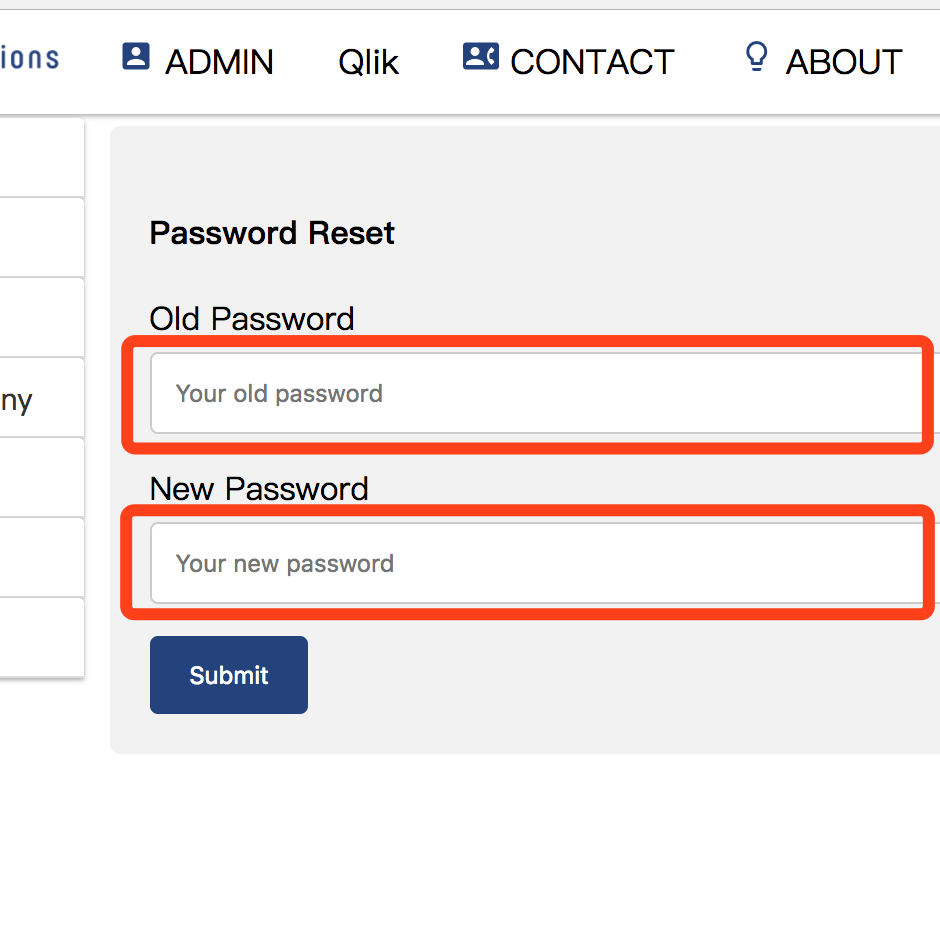
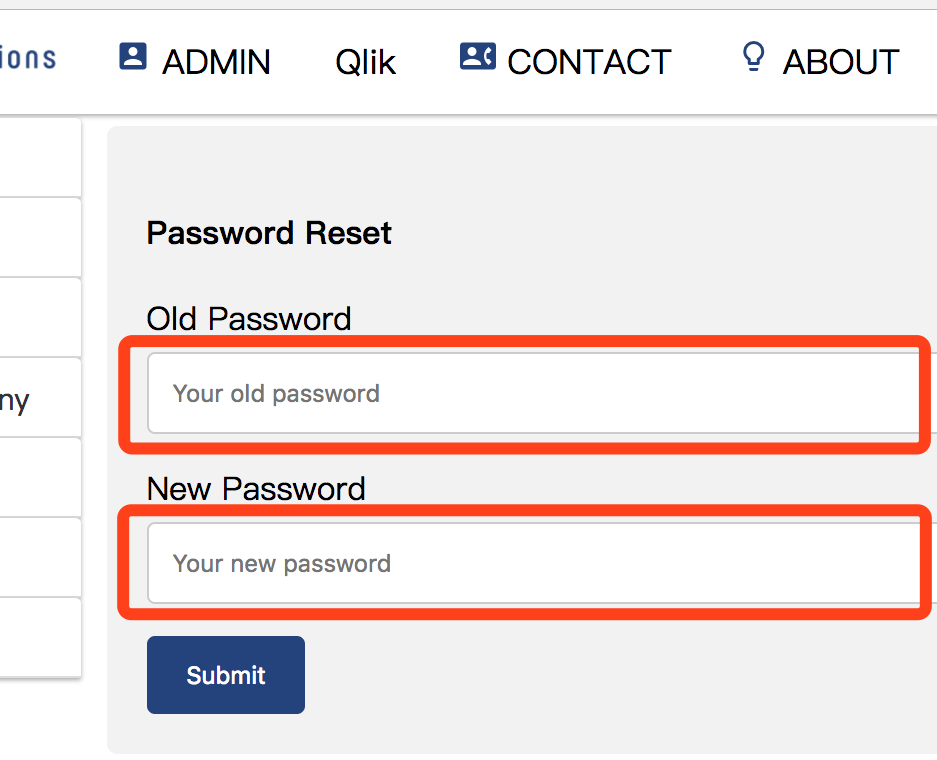
Update Help and About page
- Update help page more responsive
- Fix Google font problem
- Update About page more responsive, more friendly
- Fix image of password change

diff --git a/adminpage.html b/adminpage.html
@@ -5,6 +5,7 @@
  <title>Admin | Cast Solution</title>
  <link rel="stylesheet" href="css/mainPage.css">
  <link rel="stylesheet" href="https://fonts.googleapis.com/icon?family=Material+Icons">
+ <link href="https://fonts.googleapis.com/css?family=Open+Sans:300|Fira+Sans:400,500" rel="stylesheet">
 <script src="https://ajax.googleapis.com/ajax/libs/jquery/3.2.0/jquery.min.js"></script>
 <script type="text/javascript">
 $(document).ready(function(){
@@ -662,30 +663,11 @@ if (xmlHttp.readyState==4 || xmlHttp.readyState=="complete"){
   </form>
 </div>
 
-
-
-<!-- 	help page -->
-<!-- <div class="col-14 divAddUser allform tabcontent" id="help">
-
-
-  <h1>Change Password</h1>
-  <p>Click setting and it will show Rest Password link</p>
-  <p>Old Password: Your current password</p>
-  <p>New Password: password you wanna use in the future</p>
-  <h1>Reset Password</h1>
-  <p>Step 1: Please input your email and username.</p>
-  <p>Step 2: Click 'Send me New Password' button.</p>
-  <p>Step 3: You will receive a random new password in your email.</p>
-
-
-</div> -->
-
-
 <!-- new help page -->
 <div class="col-14 divAddUser allform tabcontent" id="helpPage">
     <h4>How to reset password?</h4>
 <div class="rowTeam">
-  <div class="columnHelp">
+  <div class="col-6 columnHelp">
     <div class="helpCard">
       <img src="img/changePassword1.png" alt="First step">
       <div class="teamContainer">
@@ -697,7 +679,7 @@ if (xmlHttp.readyState==4 || xmlHttp.readyState=="complete"){
     </div>
   </div>
 
-  <div class="columnHelp">
+  <div class="col-6 columnHelp">
     <div class="helpCard">
       <img src="img/changePassword2.png" alt="Second step">
       <div class="teamContainer">
@@ -733,7 +715,7 @@ if (xmlHttp.readyState==4 || xmlHttp.readyState=="complete"){
     <p>Cast Solutions provides consulting services and product solutions for companies seeking to enhance their performance and strategy, and looking to achieve sustainable growth.
     We thrive from being involved with businesses seeking to grow or improve. The common element is the need for a fresh approach, a process, tools and access to people who have done this successfully across diverse markets.</p>
 <div class="rowTeam">
-  <div class="columnTeamMain">
+  <div class="col-6 columnTeamMain">
     <div class="teamCard">
       <img id="imgClaire" src="img/castTeam/Claire.png" alt="Claire Lange">
       <div class="teamContainer">
@@ -741,12 +723,12 @@ if (xmlHttp.readyState==4 || xmlHttp.readyState=="complete"){
         <p class="teamTitle">Client Relationship Lead</p>
         <p>Claire has more than 25 years' experience in various business sectors including industrial, utilities, construction and infrastructure. Founding Cast in 2004, she has a passion for working with companies to enable growth and collaborative partnerships. At Cast Solutions, Claire leads the Strategic Services team. </p>
         <p>claire@castsolutions.com.au</p>
-        <p><button class="teamBtn">Contact</button></p>
+        <!-- <p><button class="teamBtn">Contact</button></p> -->
       </div>
     </div>
   </div>
 
-  <div class="columnTeamMain">
+  <div class="col-6 columnTeamMain">
     <div class="teamCard">
       <img id="imgRob" src="img/castTeam/Rob.png" alt="Rob Lange">
       <div class="teamContainer">
@@ -754,11 +736,11 @@ if (xmlHttp.readyState==4 || xmlHttp.readyState=="complete"){
         <p class="teamTitle">Business Operations Lead</p>
         <p>Rob brings 30 years' experience in the engineering; oil and gas trading in Australia, Japan, South East Asia and Europe.  He has been responsible for the expansion into Data analytics solutions working closely with end clients. At Cast Solutions, Rob leads the Product Solutions, Data Analytics  and business operations.</p>
         <p>rob@castsolutions.com.au</p>
-        <p><button class="teamBtn">Contact</button></p>
+        <!-- <p><button class="teamBtn">Contact</button></p> -->
       </div>
     </div>
   </div>
-  <div class="columnTeam">
+  <div class="col-3 columnTeam">
     <div class="teamCard">
       <img src="img/castTeam/DavidKirby.png" alt="David Kirby">
       <div class="teamContainer">
@@ -767,7 +749,7 @@ if (xmlHttp.readyState==4 || xmlHttp.readyState=="complete"){
       </div>
     </div>
   </div>
-    <div class="columnTeam">
+    <div class="col-3 columnTeam">
     <div class="teamCard">
       <img src="img/castTeam/JanineHoey.png" alt="Janine Hoey">
       <div class="teamContainer">
@@ -776,7 +758,7 @@ if (xmlHttp.readyState==4 || xmlHttp.readyState=="complete"){
       </div>
     </div>
   </div>
-    <div class="columnTeam">
+    <div class="col-3 columnTeam">
     <div class="teamCard">
       <img src="img/castTeam/MarkusZ.png" alt="Markus Z">
       <div class="teamContainer">
@@ -785,7 +767,7 @@ if (xmlHttp.readyState==4 || xmlHttp.readyState=="complete"){
       </div>
     </div>
   </div>
-    <div class="columnTeam">
+    <div class="col-3 columnTeam">
     <div class="teamCard">
       <img src="img/castTeam/LachlanWells.png" alt="LachlanWells">
       <div class="teamContainer">
@@ -794,7 +776,7 @@ if (xmlHttp.readyState==4 || xmlHttp.readyState=="complete"){
       </div>
     </div>
   </div>
-    <div class="columnTeam">
+    <div class="col-3 columnTeam">
     <div class="teamCard">
       <img src="img/castTeam/ShirleyZhang.png" alt="Shirley Zhang">
       <div class="teamContainer">
@@ -803,7 +785,7 @@ if (xmlHttp.readyState==4 || xmlHttp.readyState=="complete"){
       </div>
     </div>
   </div>
-    <div class="columnTeam">
+    <div class="col-3 columnTeam">
     <div class="teamCard">
       <img src="img/castTeam/MarcieKlocker.png" alt="Marcie Klocker">
       <div class="teamContainer">
@@ -812,7 +794,7 @@ if (xmlHttp.readyState==4 || xmlHttp.readyState=="complete"){
       </div>
     </div>
   </div>
-    <div class="columnTeam">
+    <div class="col-3 columnTeam">
     <div class="teamCard">
       <img src="img/castTeam/NoraManandi.png" alt="Nora Manandi">
       <div class="teamContainer">
@@ -821,7 +803,7 @@ if (xmlHttp.readyState==4 || xmlHttp.readyState=="complete"){
       </div>
     </div>
   </div>
-    <div class="columnTeam">
+    <div class="col-3 columnTeam">
     <div class="teamCard">
       <img src="img/castTeam/DamienCleary.png" alt="Damien Cleary">
       <div class="teamContainer">
@@ -830,7 +812,7 @@ if (xmlHttp.readyState==4 || xmlHttp.readyState=="complete"){
       </div>
     </div>
   </div>
-    <div class="columnTeam">
+    <div class="col-3 columnTeam">
     <div class="teamCard">
       <img src="img/castTeam/JamesTomlinson.png" alt="James Tomlinson">
       <div class="teamContainer">
@@ -839,7 +821,7 @@ if (xmlHttp.readyState==4 || xmlHttp.readyState=="complete"){
       </div>
     </div>
   </div>
-    <div class="columnTeam">
+    <div class="col-3 columnTeam">
     <div class="teamCard">
       <img src="img/castTeam/MattLeahy.png" alt="Matt Leahy">
       <div class="teamContainer">
@@ -848,7 +830,7 @@ if (xmlHttp.readyState==4 || xmlHttp.readyState=="complete"){
       </div>
     </div>
   </div>
-    <div class="columnTeam">
+    <div class="col-3 columnTeam">
     <div class="teamCard">
       <img src="img/castTeam/DanielHarz.png" alt="Daniel Harz">
       <div class="teamContainer">

diff --git a/userpage.html b/userpage.html
@@ -5,6 +5,7 @@
  <title>User | Cast Solution</title>
  <link rel="stylesheet" href="css/mainPage.css">
  <link rel="stylesheet" href="https://fonts.googleapis.com/icon?family=Material+Icons">
+ <link href="https://fonts.googleapis.com/css?family=Open+Sans:300|Fira+Sans:400,500" rel="stylesheet">
 </head>
 <script>
 window.onload=checkCookie();
@@ -280,7 +281,7 @@ if (xmlHttp.readyState==4 || xmlHttp.readyState=="complete"){
     <p>Cast Solutions provides consulting services and product solutions for companies seeking to enhance their performance and strategy, and looking to achieve sustainable growth.
     We thrive from being involved with businesses seeking to grow or improve. The common element is the need for a fresh approach, a process, tools and access to people who have done this successfully across diverse markets.</p>
 <div class="rowTeam">
-  <div class="columnTeamMain">
+  <div class="col-6 columnTeamMain">
     <div class="teamCard">
       <img id="imgRob" src="img/castTeam/Claire.png" alt="Claire Lange">
       <div class="teamContainer">
@@ -293,7 +294,7 @@ if (xmlHttp.readyState==4 || xmlHttp.readyState=="complete"){
     </div>
   </div>
 
-  <div class="columnTeamMain">
+  <div class="col-6 columnTeamMain">
     <div class="teamCard">
       <img id="imgRob" src="img/castTeam/Rob.png" alt="Rob Lange">
       <div class="teamContainer">
@@ -305,7 +306,7 @@ if (xmlHttp.readyState==4 || xmlHttp.readyState=="complete"){
       </div>
     </div>
   </div>
-  <div class="columnTeam">
+  <div class="col-3 columnTeam">
     <div class="teamCard">
       <img src="img/castTeam/DavidKirby.png" alt="David Kirby">
       <div class="teamContainer">
@@ -314,7 +315,7 @@ if (xmlHttp.readyState==4 || xmlHttp.readyState=="complete"){
       </div>
     </div>
   </div>
-    <div class="columnTeam">
+    <div class="col-3 columnTeam">
     <div class="teamCard">
       <img src="img/castTeam/JanineHoey.png" alt="Janine Hoey">
       <div class="teamContainer">
@@ -323,7 +324,7 @@ if (xmlHttp.readyState==4 || xmlHttp.readyState=="complete"){
       </div>
     </div>
   </div>
-    <div class="columnTeam">
+    <div class="col-3 columnTeam">
     <div class="teamCard">
       <img src="img/castTeam/MarkusZ.png" alt="Markus Z">
       <div class="teamContainer">
@@ -332,7 +333,7 @@ if (xmlHttp.readyState==4 || xmlHttp.readyState=="complete"){
       </div>
     </div>
   </div>
-    <div class="columnTeam">
+    <div class="col-3 columnTeam">
     <div class="teamCard">
       <img src="img/castTeam/LachlanWells.png" alt="LachlanWells">
       <div class="teamContainer">
@@ -341,7 +342,7 @@ if (xmlHttp.readyState==4 || xmlHttp.readyState=="complete"){
       </div>
     </div>
   </div>
-    <div class="columnTeam">
+    <div class="col-3 columnTeam">
     <div class="teamCard">
       <img src="img/castTeam/ShirleyZhang.png" alt="Shirley Zhang">
       <div class="teamContainer">
@@ -350,7 +351,7 @@ if (xmlHttp.readyState==4 || xmlHttp.readyState=="complete"){
       </div>
     </div>
   </div>
-    <div class="columnTeam">
+    <div class="col-3 columnTeam">
     <div class="teamCard">
       <img src="img/castTeam/MarcieKlocker.png" alt="Marcie Klocker">
       <div class="teamContainer">
@@ -359,7 +360,7 @@ if (xmlHttp.readyState==4 || xmlHttp.readyState=="complete"){
       </div>
     </div>
   </div>
-    <div class="columnTeam">
+    <div class="col-3 columnTeam">
     <div class="teamCard">
       <img src="img/castTeam/NoraManandi.png" alt="Nora Manandi">
       <div class="teamContainer">
@@ -368,7 +369,7 @@ if (xmlHttp.readyState==4 || xmlHttp.readyState=="complete"){
       </div>
     </div>
   </div>
-    <div class="columnTeam">
+    <div class="col-3 columnTeam">
     <div class="teamCard">
       <img src="img/castTeam/DamienCleary.png" alt="Damien Cleary">
       <div class="teamContainer">
@@ -377,7 +378,7 @@ if (xmlHttp.readyState==4 || xmlHttp.readyState=="complete"){
       </div>
     </div>
   </div>
-    <div class="columnTeam">
+    <div class="col-3 columnTeam">
     <div class="teamCard">
       <img src="img/castTeam/JamesTomlinson.png" alt="James Tomlinson">
       <div class="teamContainer">
@@ -386,7 +387,7 @@ if (xmlHttp.readyState==4 || xmlHttp.readyState=="complete"){
       </div>
     </div>
   </div>
-    <div class="columnTeam">
+    <div class="col-3 columnTeam">
     <div class="teamCard">
       <img src="img/castTeam/MattLeahy.png" alt="Matt Leahy">
       <div class="teamContainer">
@@ -395,7 +396,7 @@ if (xmlHttp.readyState==4 || xmlHttp.readyState=="complete"){
       </div>
     </div>
   </div>
-    <div class="columnTeam">
+    <div class="col-3 columnTeam">
     <div class="teamCard">
       <img src="img/castTeam/DanielHarz.png" alt="Daniel Harz">
       <div class="teamContainer">
@@ -411,7 +412,7 @@ if (xmlHttp.readyState==4 || xmlHttp.readyState=="complete"){
 <div class="col-14 divAddUser allform tabcontent" id="helpPage">
     <h4>How to reset password?</h4>
 <div class="rowTeam">
-  <div class="columnHelp">
+  <div class="col-6 columnHelp">
     <div class="helpCard">
       <img src="img/changePassword1.png" alt="First step">
       <div class="teamContainer">
@@ -423,7 +424,7 @@ if (xmlHttp.readyState==4 || xmlHttp.readyState=="complete"){
     </div>
   </div>
 
-  <div class="columnHelp">
+  <div class="col-6 columnHelp">
     <div class="helpCard">
       <img src="img/changePassword2.png" alt="Second step">
       <div class="teamContainer">

diff --git a/css/mainPage.css b/css/mainPage.css
@@ -199,18 +199,15 @@ box-shadow: none;
 /*About page*/
 .columnTeam {
   float: left;
-  width: 20%;
   margin-bottom: 16px;
   padding: 0 8px;
 }
 
 .columnTeamMain {
   float: left;
-  width: 50%;
   margin-bottom: 16px;
   padding: 0 8px;
 }
-
 
 .teamCard {
   box-shadow: 0 4px 8px 0 rgba(0, 0, 0, 0.2);
@@ -262,7 +259,6 @@ box-shadow: none;
 /*help page*/
 .columnHelp {
   float: left;
-  width: 60%;
   margin-bottom: 16px;
   padding: 0 8px;
 }
@@ -272,7 +268,7 @@ box-shadow: none;
 }
 
 .helpCard img{
-   width: 50%;
+   width: 100%;
 }
 
 /*Qlik Sense Page*/
@@ -356,11 +352,6 @@ box-shadow: none;
     float: none;
     display: block;
     text-align: left;
-  }
-  /*for team contact deatil in about page*/
-  .columnTeam .columnTeamMain {
-    width: 100%;
-    display: block;
   }
 
 }

diff --git a/login.html b/login.html
@@ -10,7 +10,6 @@
    <link rel="stylesheet" href="https://fonts.googleapis.com/icon?family=Material+Icons">
    <link href="https://fonts.googleapis.com/css?family=Open+Sans:300" rel="stylesheet">
 
-
 </head>
 
 <!-- 	header -->
